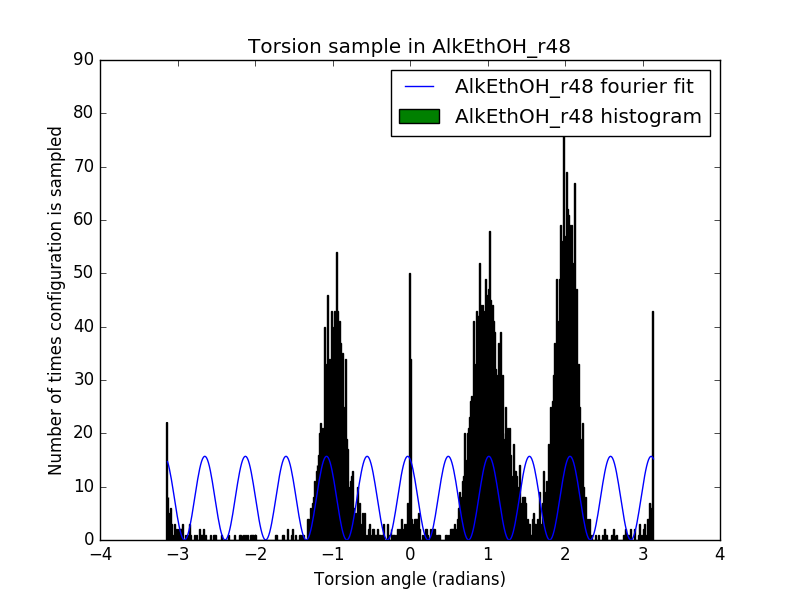
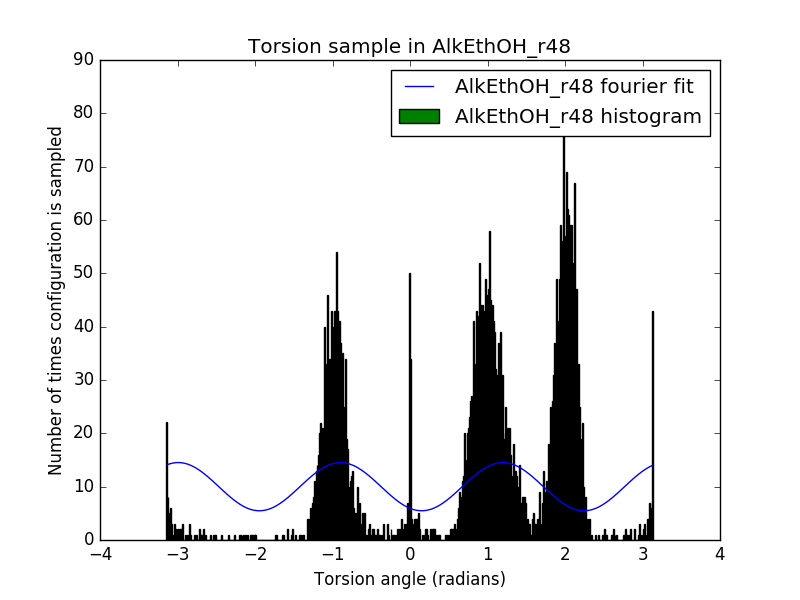
Change periodicity to a constant 2*pi/3 in least_squares_fit_example.py script

diff --git a/single-molecule-property-generation/least_squares_fit_example.py b/single-molecule-property-generation/least_squares_fit_example.py
@@ -282,7 +282,7 @@ def readtraj(ncfiles):
     return data, xyz, time 
 
 #------------------------------------------------------------------
-P = np.pi/3.
+P = 2.*2.*np.pi/3.
 def fourier(x, *a):
     ret =  a[0] * (np.sin(2*np.pi*x / P + a[1]))**2 + \
            a[2] * (np.sin(2*np.pi*x / P + a[3]))**2 + \
